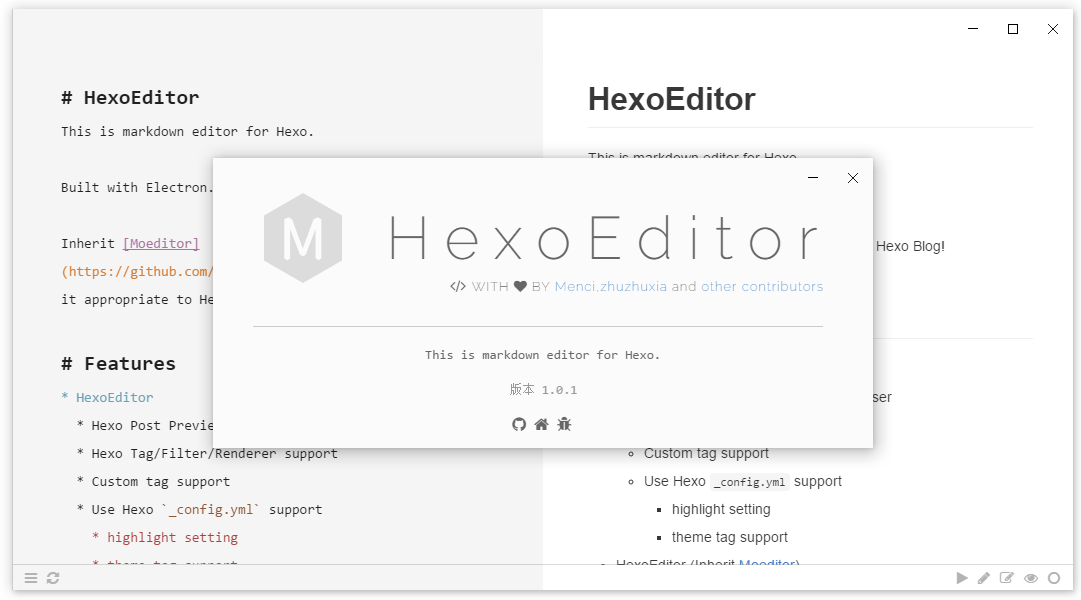
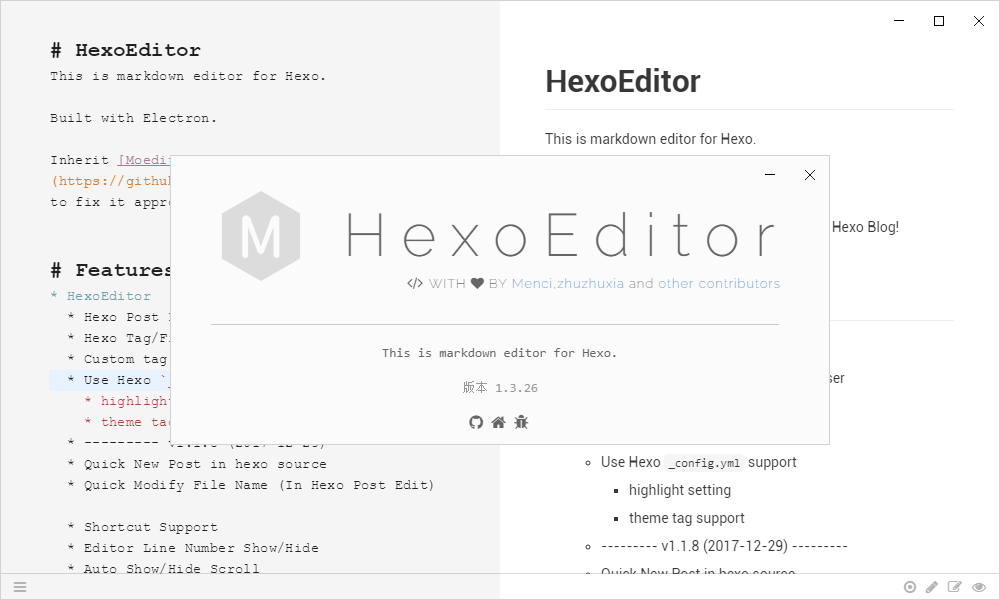
Fix change file name not change image path Fix change image name not change image dirctory Optimize the rename scheme Update Screenshots to v1.3.26

diff --git a/app/moe-action.js b/app/moe-action.js
@@ -48,54 +48,56 @@ class MoeditorAction {
         let notOpened = false;
         try {
             let hexoDir = moeApp.config.get('hexo-root-dir');
-            let templateFile = path.resolve(hexoDir, 'scaffolds', 'post.md');
-            let content = '' +
-                '---\n' +
-                'title: {{ title }}\n' +
-                'date: {{ date }}\n' +
-                'categories: \n' +
-                'tags: \n' +
-                '---';
+            if( hexoDir && fs.existsSync(hexoDir)){
+                let templateFile = path.resolve(hexoDir, 'scaffolds', 'post.md');
+                let content = '' +
+                    '---\n' +
+                    'title: {{ title }}\n' +
+                    'date: {{ date }}\n' +
+                    'categories: \n' +
+                    'tags: \n' +
+                    '---';
 
-            let fileDir = path.resolve(hexoDir, 'source', '_posts');
-            if (fs.statSync(fileDir).isDirectory()) {
-                let nowDate, fileName, count = 0;
-                do {
-                    nowDate = moment().format('YYYY-MM-DD HH:mm:ss');
-                    if (count > 0)
-                        nowDate = nowDate + count;
-                    count += 1;
-                    fileName = path.resolve(fileDir, nowDate.replace(/[-: ]/g, '') + '.md');
-                    if (count > 50) {
-                        break;
+                let fileDir = path.resolve(hexoDir, 'source', '_posts');
+                if (fs.statSync(fileDir).isDirectory()) {
+                    let nowDate, fileName, count = 0;
+                    do {
+                        nowDate = moment().format('YYYY-MM-DD HH:mm:ss');
+                        if (count > 0)
+                            nowDate = nowDate + count;
+                        count += 1;
+                        fileName = path.resolve(fileDir, nowDate.replace(/[-: ]/g, '') + '.md');
+                        if (count > 50) {
+                            break;
+                        }
+                    } while (fs.existsSync(fileName));
+                    if (fs.existsSync(templateFile)) {
+                        content = fs.readFileSync(templateFile).toString()
+                            .replace(/title:\s+\{\{[^\}]+\}\}/, 'title: ' + nowDate.replace(/[-: ]/g, ''))
+                            .replace(/date:\s+/, 'date: ' + nowDate)
+                            .replace(/\{\{[^\}]+\}\}/g, '');
                     }
-                } while (fs.existsSync(fileName));
-                if (fs.existsSync(templateFile)) {
-                    content = fs.readFileSync(templateFile).toString()
-                        .replace(/title:\s+\{\{[^\}]+\}\}/, 'title: ' + nowDate.replace(/[-: ]/g, ''))
-                        .replace(/date:\s+/, 'date: ' + nowDate)
-                        .replace(/\{\{[^\}]+\}\}/g, '');
-                }
 
-                lastDir = fileDir;
-                MoeditorFile.write(fileName, content);
-                if (fs.existsSync(fileName)) {
-                    let hexoWindow = require('electron').BrowserWindow.getFocusedWindow();
-                    if (typeof hexoWindow.hexoeditorWindow == 'undefined' || hexoWindow.hexoeditorWindow.changed || hexoWindow.hexoeditorWindow.content) {
-                        app.addRecentDocument(fileName);
-                        moeApp.open(fileName,fileName);
-                    } else {
-                        hexoWindow.hexoeditorWindow.defName = fileName;
-                        hexoWindow.hexoeditorWindow.fileName = fileName;
-                        hexoWindow.hexoeditorWindow.directory = lastDir;
-                        hexoWindow.hexoeditorWindow.fileContent = hexoWindow.hexoeditorWindow.content = MoeditorFile.read(fileName).toString();
-                        hexoWindow.hexoeditorWindow.changed = false;
-                        hexoWindow.hexoeditorWindow.window.setDocumentEdited(false);
-                        hexoWindow.hexoeditorWindow.window.setRepresentedFilename(hexoWindow.hexoeditorWindow.fileName);
-                        hexoWindow.hexoeditorWindow.window.webContents.send('refresh-editor', {});
-                        app.addRecentDocument(fileName);
+                    lastDir = fileDir;
+                    MoeditorFile.write(fileName, content);
+                    if (fs.existsSync(fileName)) {
+                        let hexoWindow = require('electron').BrowserWindow.getFocusedWindow();
+                        if (typeof hexoWindow.hexoeditorWindow == 'undefined' || hexoWindow.hexoeditorWindow.changed || hexoWindow.hexoeditorWindow.content) {
+                            app.addRecentDocument(fileName);
+                            moeApp.open(fileName,fileName);
+                        } else {
+                            hexoWindow.hexoeditorWindow.defName = fileName;
+                            hexoWindow.hexoeditorWindow.fileName = fileName;
+                            hexoWindow.hexoeditorWindow.directory = lastDir;
+                            hexoWindow.hexoeditorWindow.fileContent = hexoWindow.hexoeditorWindow.content = MoeditorFile.read(fileName).toString();
+                            hexoWindow.hexoeditorWindow.changed = false;
+                            hexoWindow.hexoeditorWindow.window.setDocumentEdited(false);
+                            hexoWindow.hexoeditorWindow.window.setRepresentedFilename(hexoWindow.hexoeditorWindow.fileName);
+                            hexoWindow.hexoeditorWindow.window.webContents.send('refresh-editor', {});
+                            app.addRecentDocument(fileName);
+                        }
+                        notOpened = false;
                     }
-                    notOpened = false;
                 }
             }
         } catch (e) {

diff --git a/views/main/hexo-image.js b/views/main/hexo-image.js
@@ -201,17 +201,22 @@ class ImgManager {
     }
 
     renameImage(imgName, newImgName) {
-        this.updateDictionary(imgName + '$', newImgName)
+        this.updateDictionary(imgName + '\\b', newImgName)
     }
 
     renameDirPath(fileName) {
         this.updateDictionary('/' + this.postName + '/', '/' + fileName + '/')
+        this.imgPathDir = path.resolve(this.imgPathDir,'..', fileName);
         this.postName = fileName;
     }
 
     updateDictionary(oldStr, newStr) {
         if (Object.keys(this.imgPathToMarkURL).length > 0) {
             this.imgPathToMarkURL = JSON.parse(JSON.stringify(this.imgPathToMarkURL).replace(new RegExp(oldStr, 'g'), newStr));
+            if (Object.keys(this.imgPathToUrlPath).length > 0)
+                this.imgPathToUrlPath = JSON.parse(JSON.stringify(this.imgPathToUrlPath).replace(new RegExp(oldStr, 'g'), newStr));
+            if (Object.keys(this.imgPathToDelHash).length > 0)
+                this.imgPathToDelHash = JSON.parse(JSON.stringify(this.imgPathToDelHash).replace(new RegExp(oldStr, 'g'), newStr));
             if (Object.keys(this.imgMD5ToPath).length > 0)
                 this.imgMD5ToPath = JSON.parse(JSON.stringify(this.imgMD5ToPath).replace(new RegExp(oldStr, 'g'), newStr));
         }
@@ -336,15 +341,18 @@ class ImgManager {
             log.info(`Begin update Src[${maxIndex}]`);
             successList.forEach((response, index) => {
                 uploadList.push(response);
-                content = content.replace(new RegExp(imgManager.imgPathToMarkURL[response.id], 'g'), response.data.url);
-                imgManager.imgPathToUrlPath[response.id] = response.data.path;
-                imgManager.imgPathToMarkURL[response.id] = response.data.url;
-                imgManager.imgPathToDelHash[response.id] = (response.data.hash || '');
-                if (maxIndex == index) {
-                    editor.setValue(content);
-                    hexoWindow.content = content;
-                    hexoWindow.changed = true;
-                    log.info(`End update Src[${maxIndex}]`);
+                let relPath = imgManager.imgPathToMarkURL[response.id];
+                if (relPath){
+                    content = content.replace(new RegExp(relPath, 'g'), response.data.url);
+                    imgManager.imgPathToUrlPath[response.id] = response.data.path;
+                    imgManager.imgPathToMarkURL[response.id] = response.data.url;
+                    imgManager.imgPathToDelHash[response.id] = (response.data.hash || '');
+                    if (maxIndex == index) {
+                        editor.setValue(content);
+                        hexoWindow.content = content;
+                        hexoWindow.changed = true;
+                        log.info(`End update Src[${maxIndex}]`);
+                    }
                 }
             });
         }

diff --git a/views/main/moe-document.js b/views/main/moe-document.js
@@ -245,33 +245,40 @@ $(() => {
             if (nameNew !== nameOld){
                 let dir = path.dirname(hexoWindow.fileName);
                 let ext = path.extname(hexoWindow.fileName);
-                let count = -1,fileNameNew;
+                let count = -1,fileNameNew,imgPathNew,tmpName;
                 do {
                     count++;
-                    fileNameNew = nameOld + (count > 0 ? count : '');
-                    fileNameNew = path.resolve(dir, nameNew + ext);
+                    tmpName = nameNew + (count > 0 ? count : '');
+                    if (tmpName == nameOld)
+                        return;
+                    fileNameNew = path.resolve(dir, tmpName + ext);
+                    imgPathNew = path.join(imgManager.imgBaseDir,tmpName);
                     if (count > 50) {
                         return;
                     }
-                } while (fs.existsSync(fileNameNew))
-
+                } while (fs.existsSync(fileNameNew)||fs.existsSync(imgPathNew))
+                nameNew = tmpName;
                 fs.renameSync(hexoWindow.fileName, fileNameNew);
                 hexoWindow.fileName = fileNameNew;
-                hexoWindow.changed = ture;
+                hexoWindow.changed = true;
                 hexoWindow.window.setRepresentedFilename(fileNameNew);
                 document.getElementsByTagName('title')[0].innerText = 'HexoEditor - ' + nameNew + ext;
 
                 //修改文章中的Image链接
                 let imgPathOld = path.join(imgManager.imgBaseDir,nameOld).replace(/\\/g,'/');
                 if (fs.existsSync(imgPathOld)) {
-                    let imgPathNew = path.join(imgManager.imgBaseDir,nameNew).replace(/\\/g,'/');
+                    let content = editor.getValue();
+                    console.log(1,content)
+                    imgPathNew = imgPathNew.replace(/\\/g,'/');
                     fs.rename(imgPathOld, imgPathNew, err => {
                         if (err) log.error(err);
-                        fs.stat(imgFilePathNew, (err, stats) => {
+                        fs.stat(imgPathNew, (err, stats) => {
                             if (err) console.error(err);
                             let relativePathOld = imgManager.relativePath(imgPathOld);
                             let relativePathNew = imgManager.relativePath(imgPathNew);
-                            editor.setValue(editor.getValue().replace(new RegExp('\\]\\(/' + relativePathOld, 'g'), '](/' + relativePathNew))
+                            content = content.replace(new RegExp('\\]\\(' + relativePathOld + '\/', 'g'), '](' + relativePathNew + '/');
+                            console.log(2,content)
+                            editor.setValue(content)
                             imgManager.renameDirPath(nameNew);
                         })
                     })

diff --git a/views/main/moe-style.css b/views/main/moe-style.css
@@ -34,13 +34,14 @@
     transition: margin-left .5s !important;
 }
 
-html, body {
-    margin: 0;
-    padding: 0;
-    width: 100%;
-    height: 100%;
-    overflow: hidden;
-    -webkit-user-select: none;
+html {
+    margin: 0 !important;
+    padding: 0 !important;
+    width: calc(100% - 2px) !important;
+    height: calc(100% - 2px) !important;
+    overflow: hidden !important;
+    -webkit-user-select: none !important;
+    border: 1px solid #d2d2d2 !important;
 }
 
 body{
@@ -49,15 +50,14 @@ body{
     margin: 0 !important;
     -webkit-user-select: none !important;
     cursor: default !important;
-    width: calc(100% - 2px) !important;
-    height: calc(100% - 2px) !important;
-    border: 1px solid #d2d2d2 !important;
+    width: 100% !important;
+    height: 100% !important;
 }
 
 #side-menu {
     width: 300px;
     margin-left: -301px;
-    height: 100%;
+    height: calc(100% - 67px);
     background: #fafafa;
     transition: all 200ms ease-in-out;
     padding-top: 20px;

diff --git a/views/main/hexo/hexo.js b/views/main/hexo/hexo.js
@@ -22,7 +22,6 @@ function Hexo() {
     this.enable = !!moeApp.config.get('hexo-config-enable');
     this.render = new Render(this);
     this.loadConfig();
-    moeApp.config.set('hexo-root-dir',this.config.__basedir);
 }
 
 Hexo.prototype.init = function() {
@@ -84,6 +83,8 @@ Hexo.prototype.changeConfig = function (enable) {
     if (typeof file === 'object')
         file = file.toString();
     this.config.__basedir = path.dirname(file|| '');
+    moeApp.config.set('hexo-root-dir',this.config.__basedir);
+
     // var sep = path.sep;
     // this.base_dir = base + sep;
     // this.public_dir = pathFn.join(base, 'public') + sep;

diff --git a/views/settings/moe-settings.css b/views/settings/moe-settings.css
@@ -17,10 +17,11 @@
  *  along with Moeditor. If not, see <http://www.gnu.org/licenses/>.
  */
 
-html, body {
-    width: 100%;
-    height: 100%;
+html {
+    width: calc(100% - 2px);
+    height: calc(100% - 2px);
     overflow: hidden;
+    border: 1px solid #d2d2d2;
 }
 
 body {
@@ -28,9 +29,9 @@ body {
     margin: 0;
     -webkit-user-select: none;
     cursor: default;
-    width: calc(100% - 2px);
-    height: calc(100% - 2px);
-    border: 1px solid #d2d2d2;
+    width: 100%;
+    height: 100%;
+    overflow: hidden;
 }
 
 #main {

diff --git a/views/about/moe-about.css b/views/about/moe-about.css
@@ -17,6 +17,13 @@
 *  along with Moeditor. If not, see <http://www.gnu.org/licenses/>.
 */
 
+html {
+    width: calc(100% - 2px);
+    height: calc(100% - 2px);
+    overflow: hidden;
+    border: 1px solid #d2d2d2;
+}
+
 body {
     background-color: #fbfbfb;
     margin: 0;

diff --git a/README.md b/README.md
@@ -36,9 +36,21 @@ Inherit [Moeditor](https://github.com/Moeditor/Moeditor), I want to fix it appro
   * Quick New Post in hexo source 
   * Quick Modify File Name (In Hexo Post Edit)  
   * Shortcut Support
-  * Editor Line number Show/Hide
+  * Editor Line Number Show/Hide
   * Auto Show/Hide Scroll
   * Scorll Together/None
+  * --------- v1.2.12 (2018-01-14) ---------
+  * Add Quick Hexo Command `hexo d`,`hexo g`,`hexo s`,`hexo clean` :triangular_flag_on_post:
+  * Quick Deploy Post
+  * --------- v1.3.21 (2018-01-30) ---------
+  * Quick Change Image to Markdown :triangular_flag_on_post:
+    * Support Drag Image
+    * Support Paste Clipboard Image
+  * Add Image Cloud (Those are Free Cloud) :triangular_flag_on_post:
+    * Support [SM.MS](https://sm.ms) 
+    * Support [QiNiu](https://portal.qiniu.com) 
+    * Support [Tencent](https://console.cloud.tencent.com) 
+  * Add Quick Start (Common Directory, Common URL)
 * HexoEditor (Inherit [Moeditor](https://github.com/Moeditor/Moeditor))
   * GitHub Flavored Markdown
   * TeX math expressions
@@ -50,7 +62,7 @@ Inherit [Moeditor](https://github.com/Moeditor/Moeditor), I want to fix it appro
   * Code highlight themes (powered by [highlight.js](https://highlightjs.org/))
   * Auto reload
   * Localization
-  * ~~Focus mode~~
+  * Focus mode
 
 # Screenshots
 
@@ -73,11 +85,11 @@ Inherit [Moeditor](https://github.com/Moeditor/Moeditor), I want to fix it appro
 
 # Plan To Do
 - [ ] Add Toc
-- [ ] Add Hexo Title Header setting (40%)
+- [x] Add Hexo Title Header setting (100%)
 - [ ] Add base highlight ShortCut
 - [ ] Add history files tree
 .....
-- [ ] Deploy Post
+- [x] Deploy Post
 - [ ] Add multi-editing in tabs
 
 # Building

diff --git a/doc/cn/README.md b/doc/cn/README.md
@@ -39,6 +39,18 @@
   * 编辑框行号显示/隐藏
   * 智能显示滚动条
   * 滚动条启用/取消同步滚动
+  * --------- v1.2.12 (2018-01-14) ---------
+  * 添加快速执行Hexo命令 `hexo d`,`hexo g`,`hexo s`,`hexo clean` :triangular_flag_on_post:
+  * 快速部署
+  * --------- v1.3.21 (2018-01-30) ---------
+  * 图片转换为Markdown格式 :triangular_flag_on_post:
+    * 支持拖拽图片
+    * 支持剪贴板粘贴
+  * 添加图床支持 :triangular_flag_on_post:
+    * 支持 [SM.MS](https://sm.ms) 
+    * 支持 [QiNiu](https://portal.qiniu.com) 
+    * 支持 [Tencent](https://console.cloud.tencent.com) 
+  * 添加快速启动（常用目录，常用地址）
 * HexoEditor (继承 [Moeditor](https://github.com/Moeditor/Moeditor) 原有功能)
   * GitHub 风格 Markdown 显示
   * TeX math 表达式
